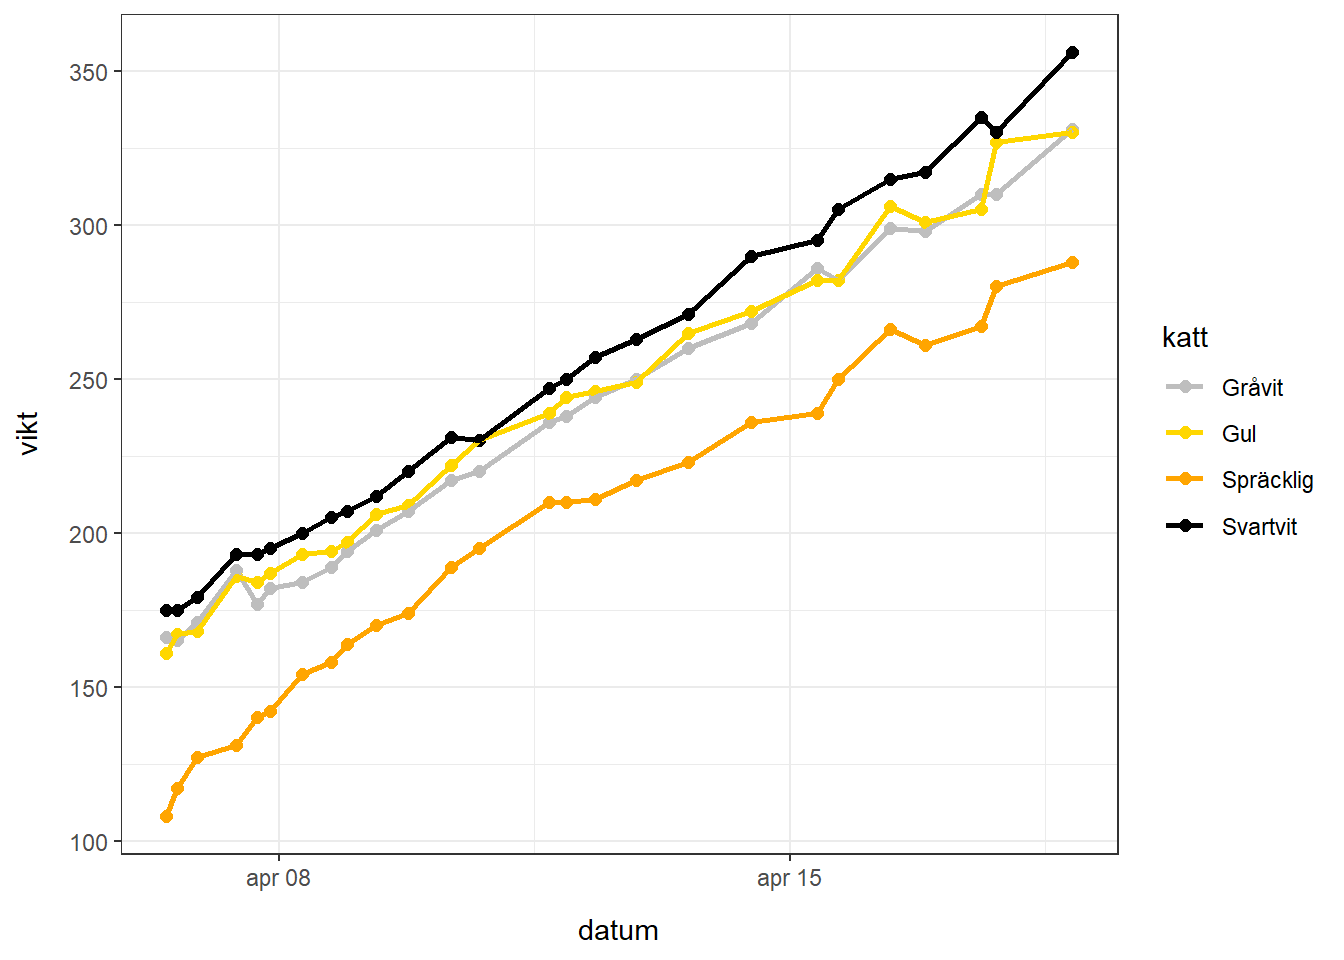
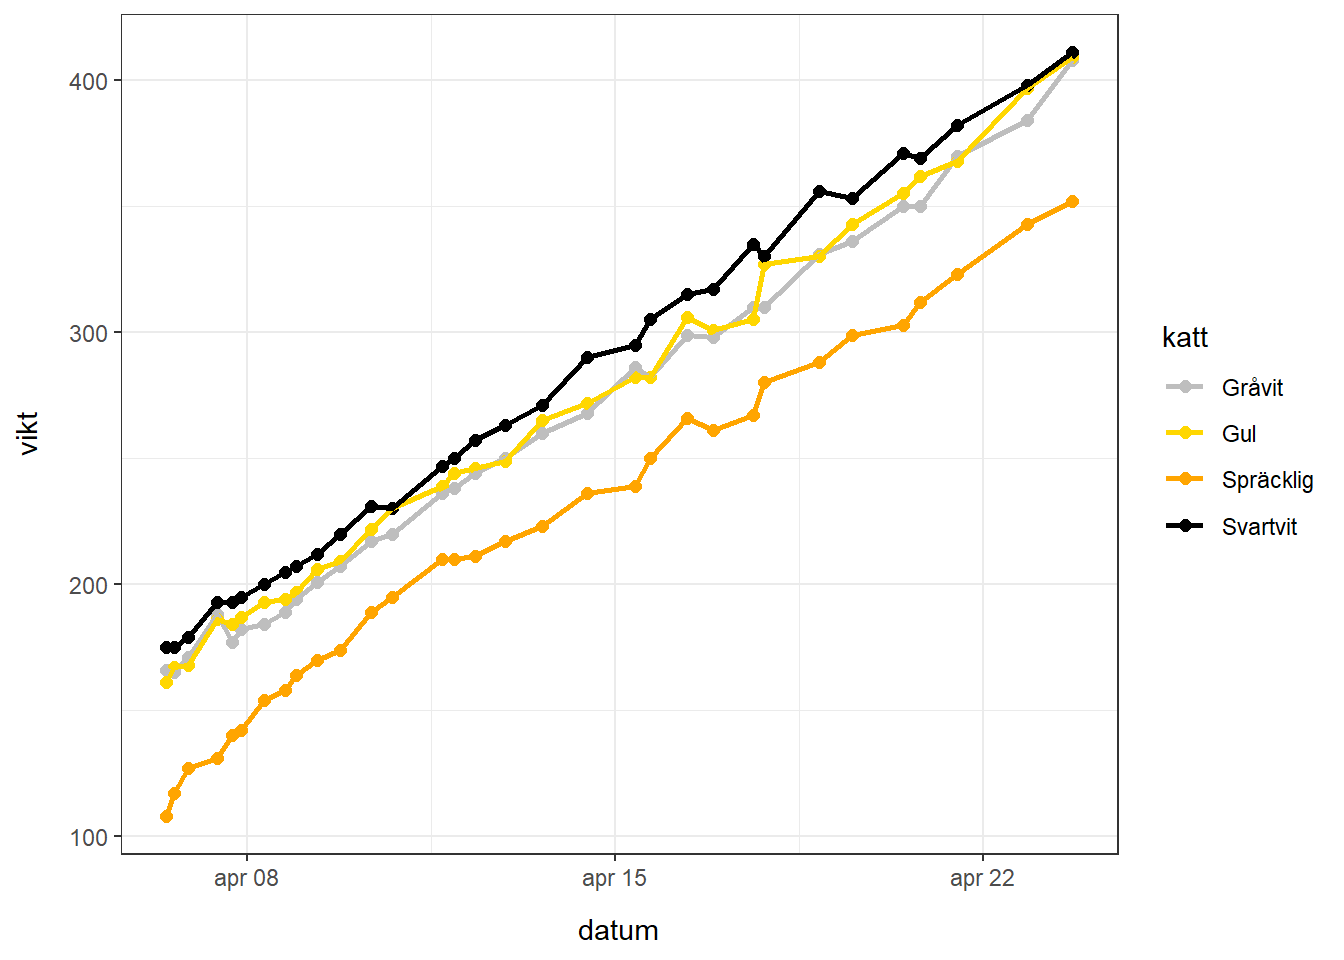
update weights

diff --git a/docs/kittens.html b/docs/kittens.html
@@ -7,7 +7,7 @@
 <meta name="viewport" content="width=device-width, initial-scale=1.0, user-scalable=yes">
 
 <meta name="author" content="Frej, Birk och Ingvild Gharbi Jeppsson">
-<meta name="dcterms.date" content="2024-04-18">
+<meta name="dcterms.date" content="2024-04-23">
 
 <title>Kattungar</title>
 <style>
@@ -89,7 +89,7 @@ ul.task-list li input[type="checkbox"] {
       <div>
       <div class="quarto-title-meta-heading">Published</div>
       <div class="quarto-title-meta-contents">
-        <p class="date">April 18, 2024</p>
+        <p class="date">April 23, 2024</p>
       </div>
     </div>
     
@@ -142,8 +142,22 @@ ul.task-list li input[type="checkbox"] {
 <section id="utveckling" class="level2">
 <h2 class="anchored" data-anchor-id="utveckling">Utveckling</h2>
 <div class="cell">
+<div class="cell-output cell-output-stderr">
+<pre><code>Warning: Removed 8 rows containing missing values or values outside the scale range
+(`geom_point()`).</code></pre>
+</div>
+<div class="cell-output cell-output-stderr">
+<pre><code>Warning: Removed 8 rows containing missing values or values outside the scale range
+(`geom_line()`).</code></pre>
+</div>
 <div class="cell-output-display">
 <p><img src="kittens_files/figure-html/unnamed-chunk-3-1.png" class="img-fluid" width="672"></p>
+</div>
+<div class="cell-output cell-output-stderr">
+<pre><code>Warning: Removed 8 rows containing missing values or values outside the scale range
+(`geom_point()`).
+Removed 8 rows containing missing values or values outside the scale range
+(`geom_line()`).</code></pre>
 </div>
 <div class="cell-output-display">
 <p><img src="kittens_files/figure-html/unnamed-chunk-3-2.png" class="img-fluid" width="672"></p>
